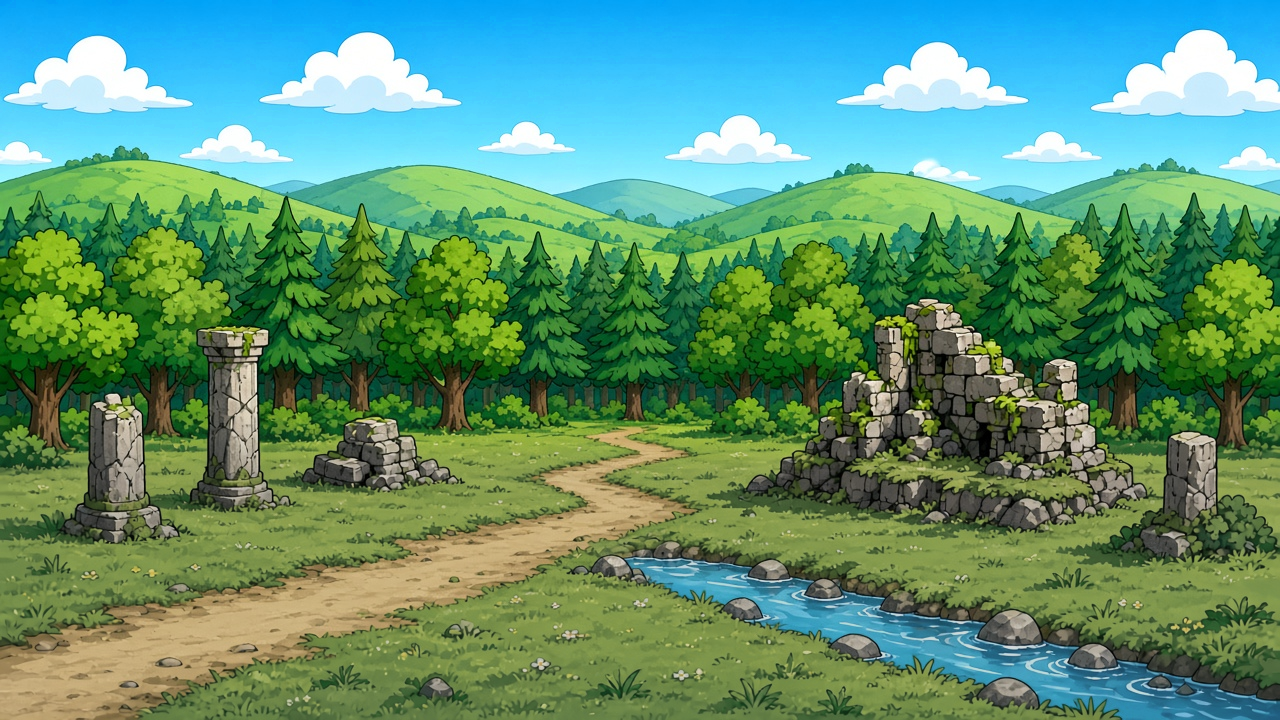
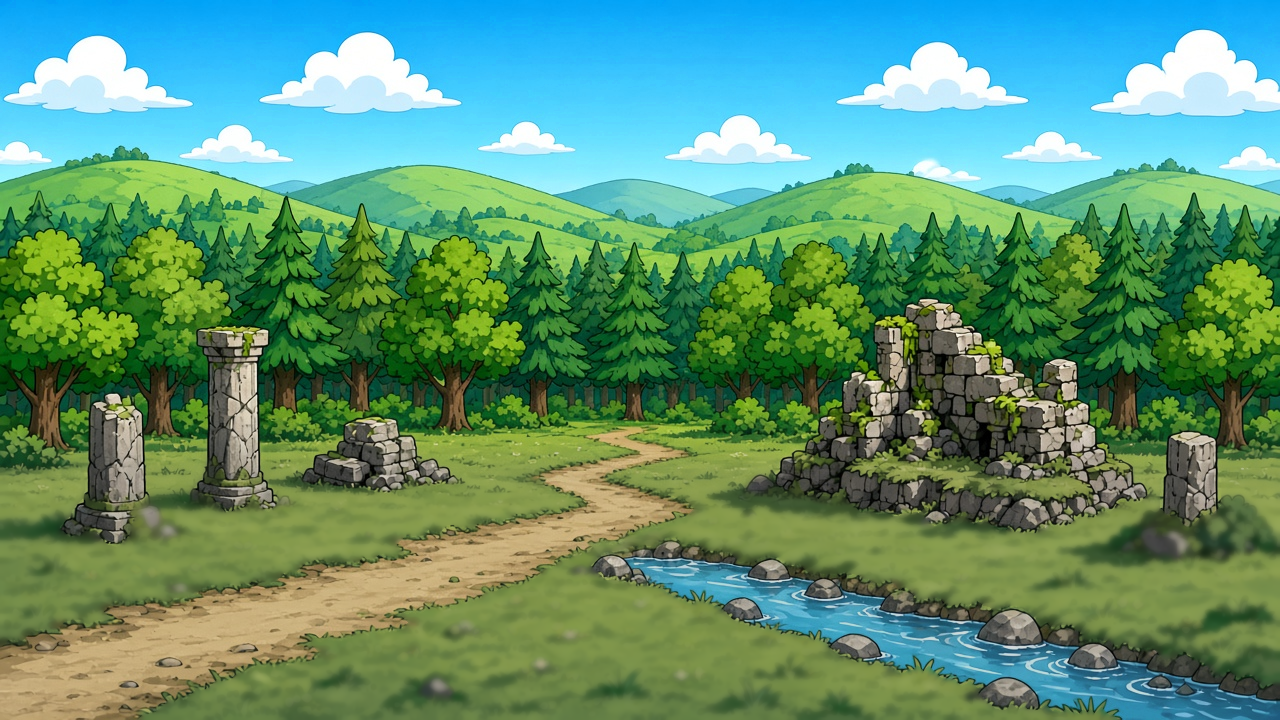
Light Cavalry art wired to runner id; calmer env backdrop

diff --git a/src/render/renderer.ts b/src/render/renderer.ts
@@ -33,6 +33,7 @@ export class Renderer {
       runner: ['idle', 'attack', 'death'],
       brute: ['idle', 'attack', 'death'],
       spitter: ['idle', 'attack', 'death'],
+      cavalry: ['idle', 'attack', 'death'],
       shambler2: ['idle', 'attack', 'death'],
     };
     const base = import.meta.env.BASE_URL + 'art/';
@@ -62,6 +63,7 @@ export class Renderer {
 
   /** Art key for an entity: Shamblers alternate between two skins by id. */
   private artKind(e: Entity): string {
+    if (e.kind === 'runner' && this.tex.has('cavalry_t1_idle_00')) return 'cavalry';
     return e.kind === 'shambler' && e.id % 2 === 1 && this.tex.has('shambler2_t1_idle_00') ? 'shambler2' : e.kind;
   }
 
